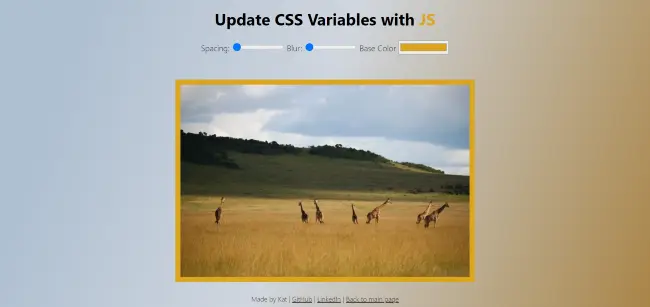
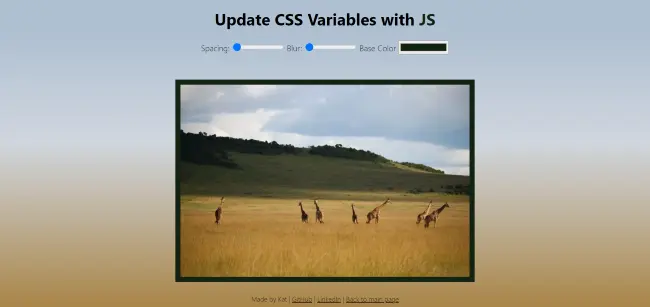
Updated styles

diff --git a/index.html b/index.html
@@ -9,22 +9,38 @@
     <title>Kat's Days of Code Challenge 2024 Portfolio</title>
     <style>
         body {
-            background: linear-gradient(178.6deg, rgb(20, 36, 50) 11.8%, rgb(124, 143, 161) 83.8%);
-            color: #ffffff;
+            background: linear-gradient(89.9deg, rgb(208, 246, 255) 0.1%, rgb(255, 237, 237) 47.9%, rgb(255, 255, 231) 100.2%);
+            color: #000000;
             font-family: 'Segoe UI', Tahoma, Geneva, Verdana, sans-serif;
             font-weight: 100;
             min-height: 100vh;
             text-align: center;
         }
 
+        h1 {
+            font-size: xx-large;
+        }
+
+        h2 {
+            font-size: x-large;
+        }
+
+        h3 {
+            font-size: larger;
+        }
+
+        p {
+            margin: 0;
+        }
+
         a {
             color: #DAA520;
+            font-weight: bold;
             text-decoration: none;
         }
 
         a:hover {
-            color: #ffffff;
-            text-decoration: underline;
+            color: #000000;
         }
 
         header {
@@ -78,17 +94,13 @@
 
         .card-body {
             border-radius: 5px;
-            color: #000000;
-            padding: 20px;
+            padding: 10px 20px;
         }
 
         footer {
             align-self: end;
-            background: rgba(0, 0, 0, 0.5);
             font-size: 10px;
-            font-weight: bold;
             padding: 10px;
-            position: relative;
             width: 100%;
         }
     </style>
@@ -97,48 +109,61 @@
 <body>
     <header>
         <h1>Women Who Code's Days of Code Challenge 2024</h1>
-        <h2>Vanilla JavaScript Challenge for 30 Days</h2>
-        <h3>Forked from Wes Bos' <a href="https://javascript30.com/" target="_blank">JavaScript30</a></h3>
+        <h2>Forked from Wes Bos' <a href="https://javascript30.com/" target="_blank">JavaScript30</a></h2>
     </header>
 
     <main>
         <div id="project-container">
             <div class="row row-cols-1 row-cols-sm-2 row-cols-md-3 g-3">
                 <div class="col">
-                    <a href="./01 - JavaScript Drum Kit/" target="_blank">
-                        <div class="card h-100 mb-3">
-                            <div class="image-box">
-                                <img src="./projects/day1.webp" class="card-img-top" alt="JavaScript Drum Kit">
-                            </div>
-                            <div class="card-body">
-                                <h4 class="card-title">Day 1: JS Drum Kit</h4>
-                            </div>
+
+                    <div class="card h-100 mb-3">
+                        <div class="image-box">
+                            <img src="./projects/day1.webp" class="card-img-top" alt="JavaScript Drum Kit">
                         </div>
+                        <div class="card-body">
+                            <h3 class="card-title">Day 1: JS Drum Kit</h3>
+                            <p>
+                                <a href="./01 - JavaScript Drum Kit/" target="_blank">Demo</a> | <a
+                                    href="https://github.com/katmohd/JavaScript30/tree/main/01%20-%20JavaScript%20Drum%20Kit"
+                                    target="_blank">Repository
+                                </a>
+                            </p>
+                        </div>
+                    </div>
                     </a>
                 </div>
                 <div class="col">
-                    <a href="./02 - JS and CSS Clock/" target="_blank">
-                        <div class="card h-100 mb-3">
-                            <div class="image-box">
-                                <img src="./projects/day2.webp" class="card-img-top" alt="JS and CSS Clock">
-                            </div>
-                            <div class="card-body">
-                                <h4 class="card-title">Day 2: JS & CSS Clock</h4>
-                            </div>
+                    <div class="card h-100 mb-3">
+                        <div class="image-box">
+                            <img src="./projects/day2.webp" class="card-img-top" alt="JS and CSS Clock">
                         </div>
-                    </a>
+                        <div class="card-body">
+                            <h3 class="card-title">Day 2: JS & CSS Clock</h3>
+                            <p>
+                                <a href="./02 - JS and CSS Clock/" target="_blank">Demo</a> | <a
+                                    href="https://github.com/katmohd/JavaScript30/tree/main/02%20-%20JS%20and%20CSS%20Clock"
+                                    target="_blank">Repository
+                                </a>
+                            </p>
+                        </div>
+                    </div>
                 </div>
                 <div class="col">
-                    <a href="./03 - CSS Variables/" target="_blank">
-                        <div class="card h-100 mb-3">
-                            <div class="image-box">
-                                <img src="./projects/day3.webp" class="card-img-top" alt="CSS Variables">
-                            </div>
-                            <div class="card-body">
-                                <h4 class="card-title">Day 3: CSS Variables</h4>
-                            </div>
+                    <div class="card h-100 mb-3">
+                        <div class="image-box">
+                            <img src="./projects/day3.webp" class="card-img-top" alt="CSS Variables">
                         </div>
-                    </a>
+                        <div class="card-body">
+                            <h3 class="card-title">Day 3: CSS Variables</h3>
+                            <p>
+                                <a href="./03 - CSS Variables/" target="_blank">Demo</a> | <a
+                                    href="https://github.com/katmohd/JavaScript30/tree/main/03%20-%20CSS%20Variables"
+                                    target="_blank">Repository
+                                </a>
+                            </p>
+                        </div>
+                    </div>
                 </div>
             </div>
         </div>
@@ -147,7 +172,7 @@
     <footer>
         Made by Kat | <a href="https://github.com/katmohd" target="_blank">GitHub</a> | <a
             href="https://www.linkedin.com/in/katmohd/" target="_blank">LinkedIn</a> | <a
-            href="https://github.com/katmohd/JavaScript30">Back to repository</a>
+            href="https://github.com/katmohd/JavaScript30">Repository</a>
     </footer>
 
 </body>

diff --git a/03 - CSS Variables/index.html b/03 - CSS Variables/index.html
@@ -21,7 +21,7 @@
             <input id="blur" type="range" name="blur" min="0" max="25" value="10" data-sizing="px">
 
             <label for="base">Base Color</label>
-            <input id="base" type="color" name="base" value="#DAA520">
+            <input id="base" type="color" name="base" value="#132312">
         </div>
 
         <img src="maasaigiraffes.webp" width="45%" height="auto">
@@ -35,7 +35,7 @@
 
     <style>
         :root {
-            --base: #DAA520;
+            --base: #132312;
             --spacing: 10px;
             --blur: 10px;
         }
@@ -55,7 +55,7 @@
     */
 
         body {
-            background: linear-gradient(109.6deg, rgb(174, 191, 209) 11.2%, rgb(208, 214, 222) 47.5%, rgb(169, 132, 71) 100.2%);
+            background: linear-gradient(to bottom, rgb(174, 191, 209) 11.2%, rgb(208, 214, 222) 47.5%, rgb(169, 132, 71) 100.2%);
             color: #000000;
             font-family: 'Segoe UI', Tahoma, Geneva, Verdana, sans-serif;
             font-weight: 100;
@@ -72,7 +72,7 @@
         }
 
         footer {
-            bottom: 0;
+            align-self: end;
             font-size: smaller;
             margin: 20px 0 0 0;
         }
